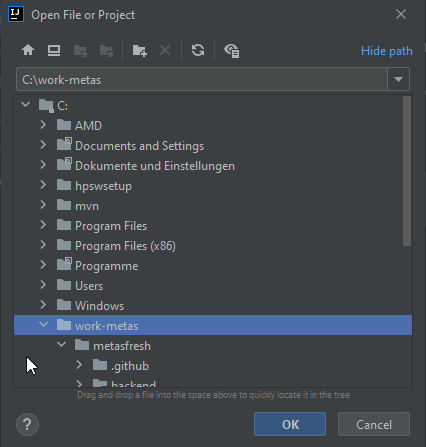
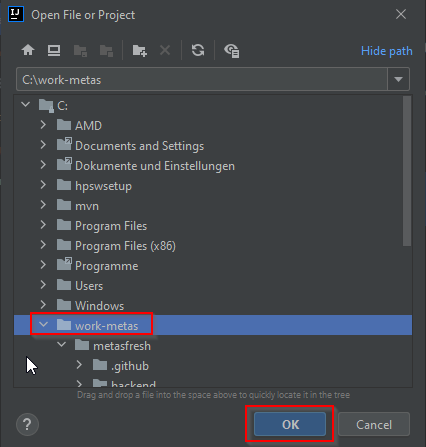
updated screenshots & linked in text
Added red squares around important bits in screenshots & linked to them in the guide.

Changed region(s): [[0.061, 0.698, 0.3662, 0.7562], [0.5493, 0.9016, 0.7934, 1.0]]

diff --git a/_intellij_collection/EN/setting_up_intellij_idea.md b/_intellij_collection/EN/setting_up_intellij_idea.md
@@ -42,7 +42,7 @@ The following code will create the new folder `work-metas` and clone all metasfr
 Download and install JDK 8 from [AdoptOpenJDK](https://adoptopenjdk.net/releases.html?variant=openjdk8&jvmVariant=hotspot).
 Afterwards ensure the `JAVA_HOME` PATH is correct.
 
----java-home-path---
+![set JAVA_HOME path](./assets/java-home-path.png)
 
 ## Install node.js
 Download and install [node.js](https://nodejs.org/en/download/)
@@ -51,11 +51,11 @@ Download and install [node.js](https://nodejs.org/en/download/)
 
 Download and install [postgresql](https://www.enterprisedb.com/downloads/postgres-postgresql-downloads) (optimal) version 10.19 and only select `Command Line Tools`.
 
----postgresql-install-web---
+![install postgres Command Line Tools](./assets/postresql-install-web.png)
 
 afterwards add the PATH:
 
----postgres-path---
+![set postgres path](./assets/postgres-path.png)
 
 ## Set up maven
 
@@ -78,7 +78,7 @@ This should return something similar to:
 - (Create a folder named `.m2` in `C:/Users/username`)
 - Paste `settings.xml` into `C:/Users/username/.m2/settings.xml`
 
----path-settings-xml---
+![folder and location for settings.xml](./assets/path-settings-xml.png)
 
 ## Compile the maven project
 
@@ -138,23 +138,25 @@ The Community Edition might work, for more information consult https://forum.met
 
 Open IntelliJ Ultimate and go to `Customize -> All Settings`
 
----intellij-conf-maven---
+![configure maven in IntelliJ](./assets/intellij-conf-maven.png)
 
 In `Build, Execution, Deployment -> Build Tools -> Maven` ensure the user settings file path is correct.
 
----intellij-user-settings-file---
+![user settings file path in IntelliJ](./assets/intellij-user-settings-file.png)
 
 In Build, Execution, Deployment -> Build Tools -> Maven -> Importing ensure the following checkboxes are (un-)ticked:
 Also choose the `JAVA_HOME` PATH in `JDK for Importer`
 
----intellij-maven-importing---
+![maven import settings and JDK for importer](./assets/intellij-maven-importing.png)
 
 Open the work-metas project:
 - choose `Projects -> Open`
-  ---7intellij-open-project---
+
+  ![open the project](./assets/intellij-open-project.png)
 
 - select the folder work-metas
-  ---intellij-choose-work-metas---
+
+  ![select the folder "work-metas"](./assets/intellij-choose-work-metas.png)
 
 - once the project opened, close it again. The `work-metas` folder should now contain an `.idea` subfolder.
 
@@ -180,11 +182,11 @@ Open `Project Structure` with <kbd>Ctrl</kbd>+<kbd>Alt</kbd>+<kbd>Shift</kbd>+<k
 
 - ensure under `SDK` the correct jdk home path is selected.
 
----intellij-ps-sdk---
+![choose SDK home path](./assets/intellij-ps-sdk.png)
 
 - under `Project` choose the correct Project SDK
 
----intellij-ps-project---
+![add SDK for project](./assets/intellij-ps-project.png)
 
 - confirm with `Apply` and `OK`
 
@@ -192,13 +194,13 @@ Open `Settings` with <kbd>Ctrl</kbd>+<kbd>Alt</kbd>+<kbd>S</kbd>
 
 In `Build, Execution, Deployment -> Build Tools -> Maven -> Importing` select the JDK for `JDK for importer`.
 
----intellij-settings-jdk-imp---
+![maven configure JDK for importer](./assets/intellij-settings-jdk-imp.png)
 
 ### pom files
 
 In the `Project` tool window navigate to `metasfresh/backend/pom.xml`, right-click on the `pom.xml` and select `Add as a Maven project`.
 
----intellij-pom-maven---
+![add pom as a maven project](./assets/intellij-pom-maven.png)
 
 This step might take some time to complete and will throw an error, since we need to add these poms as well:
 
@@ -211,11 +213,11 @@ This step might take some time to complete and will throw an error, since we nee
 
 Press "4 squares" and disable `Configuration -> Type`
 
----intellij-4squares---
+![press "4squares" and change configuration](./assets/intellij-4squares.png)
 
 Press "plus", choose `Run configuration type` and add the following:
 
----intellij-run-config---
+![press "plus" to add to the run configuration](./assets/intellij-run-config.png)
 
 - `Docker`
 - `npm`
@@ -223,7 +225,7 @@ Press "plus", choose `Run configuration type` and add the following:
 
 In the end you should see the following Run configurations:
 
----intellij-final-run-config---
+![final run configuration](./assets/intellij-final-run-config.png)
 
 ### Configure docker for IntelliJ
 
@@ -232,7 +234,7 @@ Open settings with <kbd>Ctrl</kbd>+<kbd>Alt</kbd>+<kbd>S</kbd>
 In `Build, Execution, Deployment -> Docker` press <kbd>+</kbd>.
 Then choose the option "Docker for Windows". Afterwards you can check if the connection was successful and hit `Apply`.
 
----intellij-docker---
+![configure docker for IntelliJ](./assets/intellij-docker.png)
 
 ### Configure node js for IntelliJ
 
@@ -240,7 +242,7 @@ Open settings with <kbd>Ctrl</kbd>+<kbd>Alt</kbd>+<kbd>S</kbd>
 
 In `Language & Frameworks -> Node.js` ensure that `Node interpreter` and `Package Manager` are the installed ones.
 
----intellij-node-js---
+![check paths for node.js](./assets/intellij-node-js.png)
 
 Press `Apply` and `Ok`
 
@@ -250,20 +252,20 @@ Press `Apply` and `Ok`
 
 In the `Services` tool window right click `Infrastructure: Compose Deployment` and choose run. In the end a message should indicate its success.
 
----intellij-icd---
+![run Infrastructure: Compose Deployment](./assets/intellij-icd.png)
 
----intellij-docker-success---
+![Infrastructure successful deployed](./assets/intellij-docker-success.png)
 
 Info about the Docker Additional property error:
 Docker sometimes enables the option to use Docker Compose V2. However, this needs to be disabled.
 
----docker-compose-v2---
+![docker compose v2 disable](./assets/docker-compose-v2.png)
 
 ### Install dependencies for frontend
 
 In the `Project` tool window select the file `metasfresh/frontend/package.json`, right click it and choose `run 'npm install'`.
 
----intellij-npm-install---
+![npm install](./assets/intellij-npm-install.png)
 
 Copy the file `metasfresh\frontend\config.js.dist` into `metasfresh\frontend\docker\nginx`.
 
@@ -276,7 +278,7 @@ You need to run this script manually (e.g. in Datagrip).
 
 This is necessary after every git pull from master. It updates all changes to your local database.
 
---intellij-run-sql-migrations---
+![npm install](./assets/intellij-run-sql-migrations.png)
 
 ## Start metasfresh
 
@@ -293,6 +295,6 @@ convert the files whenever you need them. Just right-click on a “.launch” fi
 Eclipse can only find `// todo comments` if todo is in caps rage.
 To do this you should go to `Settings -> Editor -> Live Templates` and add a new template as follows:
 
----live-templates-optional---
+  ![Eclipser](./assets/live-templates-optional.png)
 
 - Learn shortcuts and helpful information about your IDE.
